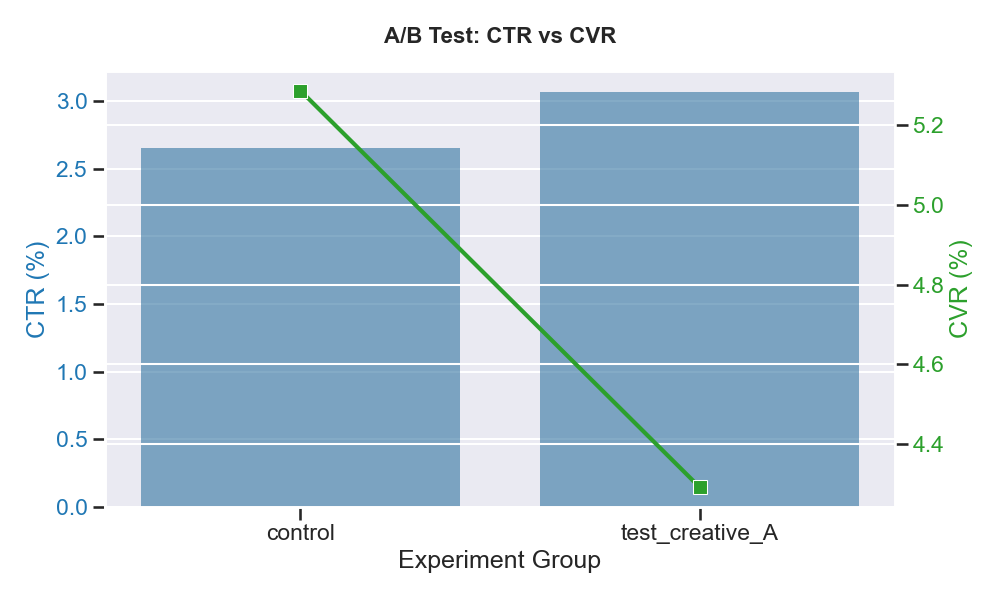
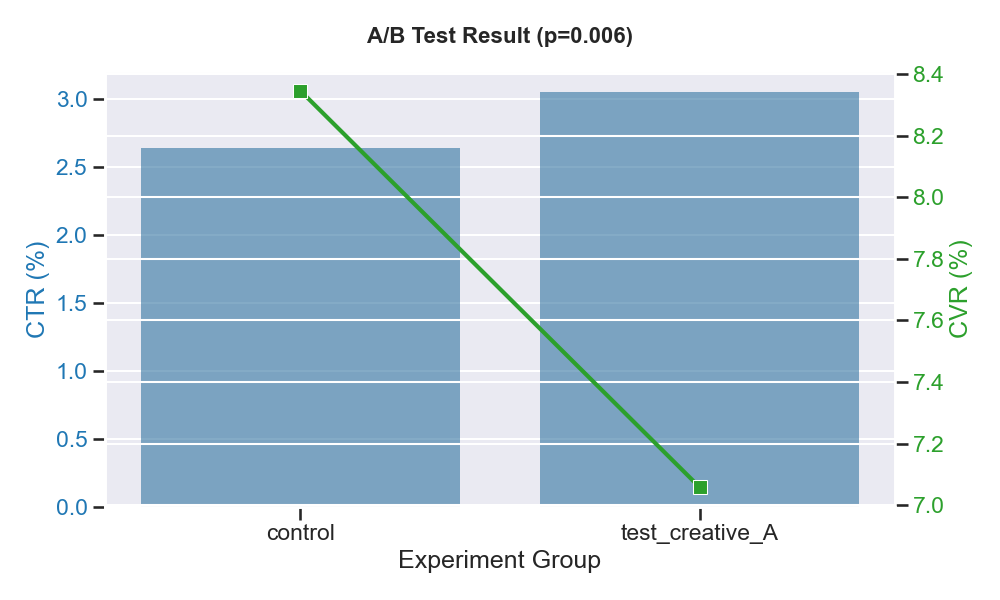
Add Funnel Analysis (CTE), T-Test (scipy), and Dashboard link

diff --git a/analyze_and_report.py b/analyze_and_report.py
@@ -3,6 +3,7 @@ import pandas as pd
 import matplotlib.pyplot as plt
 import seaborn as sns
 import os
+from scipy import stats # For statistical significance test
 
 # 設定優質的圖表風格
 plt.style.use('seaborn-v0_8-darkgrid')
@@ -20,6 +21,10 @@ def main():
 
     conn = sqlite3.connect(DB_FILE)
     print("已連線至資料庫...")
+    
+    # Create reports directory if not exists
+    if not os.path.exists('reports'):
+        os.makedirs('reports')
 
     # --- 1. 每日趨勢視覺化 ---
     print("正在分析每日趨勢...")
@@ -32,10 +37,6 @@ def main():
     """
     df_daily = run_query(query_daily, conn)
     
-    # Create reports directory if not exists
-    if not os.path.exists('reports'):
-        os.makedirs('reports')
-
     plt.figure(figsize=(12, 6))
     sns.lineplot(data=df_daily, x='date', y='ctr', marker='o', color='#4A90E2', linewidth=2.5)
     plt.title('Daily Click-Through Rate (CTR) Trend', fontsize=16, fontweight='bold', pad=20)
@@ -72,8 +73,27 @@ def main():
     plt.savefig('reports/device_ctr_comparison.png')
     print("已儲存 reports/device_ctr_comparison.png")
 
-    # --- 3. A/B 測試結果 ---
-    print("正在分析 A/B 測試結果...")
+    # --- 3. A/B 測試結果與統計檢定 ---
+    print("正在分析 A/B 測試結果 (含統計檢定)...")
+    
+    # (1) 撈取原始數據進行 T-Test
+    query_raw = "SELECT experiment_group, is_click FROM ad_impressions"
+    df_raw = run_query(query_raw, conn)
+    
+    group_control = df_raw[df_raw['experiment_group'] == 'control']['is_click']
+    group_test = df_raw[df_raw['experiment_group'] == 'test_creative_A']['is_click']
+    
+    t_stat, p_value = stats.ttest_ind(group_control, group_test)
+    
+    print(f"\n[A/B 統計檢定結果]")
+    print(f"Control Group N={len(group_control)}, Test Group N={len(group_test)}")
+    print(f"T-statistic: {t_stat:.4f}, P-value: {p_value:.4f}")
+    if p_value < 0.05:
+        print(">> 結果: 顯著 (Significant) - 拒絕虛無假設")
+    else:
+        print(">> 結果: 不顯著 (Not Significant)")
+        
+    # (2) 視覺化
     query_ab = """
     SELECT 
         experiment_group,
@@ -83,8 +103,6 @@ def main():
     GROUP BY 1
     """
     df_ab = run_query(query_ab, conn)
-    print("\n[A/B 測試發現]")
-    print(df_ab)
     
     # 雙軸圖表
     fig, ax1 = plt.subplots(figsize=(10, 6))
@@ -101,10 +119,42 @@ def main():
     sns.lineplot(data=df_ab, x='experiment_group', y='cvr', ax=ax2, color=color, marker='s', markersize=10, linewidth=3)
     ax2.tick_params(axis='y', labelcolor=color)
     
-    plt.title('A/B Test: CTR vs CVR', fontsize=16, fontweight='bold', pad=20)
+    plt.title(f'A/B Test Result (p={p_value:.3f})', fontsize=16, fontweight='bold', pad=20)
     plt.tight_layout()
     plt.savefig('reports/ab_test_result.png')
     print("已儲存 reports/ab_test_result.png")
+    
+    # --- 4. 漏斗分析 ---
+    print("正在執行漏斗分析...")
+    query_funnel = """
+    WITH FunnelStats AS (
+        SELECT 
+            COUNT(*) as total_impressions,
+            SUM(is_click) as total_clicks,
+            SUM(is_registration) as total_registrations,
+            SUM(is_conversion) as total_conversions
+        FROM ad_impressions
+    )
+    SELECT '1.Impression' as step, total_impressions as count FROM FunnelStats
+    UNION ALL
+    SELECT '2.Click', total_clicks FROM FunnelStats
+    UNION ALL
+    SELECT '3.Registration', total_registrations FROM FunnelStats
+    UNION ALL
+    SELECT '4.Conversion', total_conversions FROM FunnelStats;
+    """
+    df_funnel = run_query(query_funnel, conn)
+    print("\n[漏斗數據]")
+    print(df_funnel)
+    
+    plt.figure(figsize=(10, 6))
+    sns.barplot(data=df_funnel, y='step', x='count', palette="magma")
+    plt.title('Marketing Funnel: Imp -> Click -> Reg -> Conv', fontsize=16, fontweight='bold')
+    plt.xlabel('Count')
+    plt.ylabel('Funnel Step')
+    plt.tight_layout()
+    plt.savefig('reports/funnel_analysis.png')
+    print("已儲存 reports/funnel_analysis.png")
 
     conn.close()
     print("\n分析完成。請查看生成的 PNG 圖檔。")

diff --git a/data_generator.py b/data_generator.py
@@ -4,7 +4,7 @@ from datetime import datetime, timedelta
 import math
 
 def generate_data(num_rows=50000):
-    print(f"正在生成 {num_rows} 筆合成廣告資料 (使用標準庫)...")
+    print(f"正在生成 {num_rows} 筆合成廣告資料 (含漏斗: 點擊 -> 註冊 -> 轉換)...")
     
     random.seed(42)
     
@@ -69,23 +69,34 @@ def generate_data(num_rows=50000):
         
         is_click = 1 if random.random() < prob_click else 0
         
-        # --- 轉換 (Conversion) 邏輯 ---
+        # --- 漏斗邏輯: 點擊 -> 註冊 (Registration) -> 轉換 (Conversion) ---
+        is_reg = 0
         is_conv = 0
+        
         if is_click == 1:
-            base_cvr = 0.05
-            prob_conv = base_cvr
+            # 點擊後，有 30% 機率註冊
+            prob_reg = 0.30
             
-            if weekday >= 5: prob_conv *= 1.3      # 週末轉換率較高
-            if dev == 'desktop': prob_conv *= 1.4  # 桌機轉換率較高
+            # 桌機註冊較容易 (打字方便)
+            if dev == 'desktop': prob_reg *= 1.2
             
-            if random.random() < prob_conv:
-                is_conv = 1
+            if random.random() < prob_reg:
+                is_reg = 1
                 
-        row = [imp_id, u_id, a_id, ts_str, dev, browser, geo, age, cpc, grp, is_click, is_conv]
+                # 註冊後，有 20% 機率轉換 (購買)
+                prob_conv = 0.20
+                
+                # 週末轉換率較高
+                if weekday >= 5: prob_conv *= 1.3
+                
+                if random.random() < prob_conv:
+                    is_conv = 1
+                
+        row = [imp_id, u_id, a_id, ts_str, dev, browser, geo, age, cpc, grp, is_click, is_reg, is_conv]
         data_rows.append(row)
         
     # 儲存為 CSV
-    headers = ['impression_id', 'user_id', 'ad_id', 'timestamp', 'device_type', 'browser', 'geo', 'age_group', 'cpc_bid', 'experiment_group', 'is_click', 'is_conversion']
+    headers = ['impression_id', 'user_id', 'ad_id', 'timestamp', 'device_type', 'browser', 'geo', 'age_group', 'cpc_bid', 'experiment_group', 'is_click', 'is_registration', 'is_conversion']
     
     csv_file = 'ad_data.csv'
     with open(csv_file, 'w', newline='', encoding='utf-8') as f:

diff --git a/setup_db.py b/setup_db.py
@@ -15,6 +15,8 @@ def setup_database():
     conn = sqlite3.connect(db_file)
     cursor = conn.cursor()
     
+    cursor.execute("DROP TABLE IF EXISTS ad_impressions")
+
     create_table_sql = """
     CREATE TABLE IF NOT EXISTS ad_impressions (
         impression_id TEXT PRIMARY KEY,
@@ -28,6 +30,7 @@ def setup_database():
         cpc_bid REAL,
         experiment_group TEXT,
         is_click INTEGER,
+        is_registration INTEGER,
         is_conversion INTEGER
     );
     """
@@ -41,7 +44,7 @@ def setup_database():
         # 批次插入
         rows = list(reader)
         
-    insert_sql = "INSERT OR REPLACE INTO ad_impressions VALUES (?,?,?,?,?,?,?,?,?,?,?,?)"
+    insert_sql = "INSERT OR REPLACE INTO ad_impressions VALUES (?,?,?,?,?,?,?,?,?,?,?,?,?)"
     cursor.executemany(insert_sql, rows)
     conn.commit()
     

diff --git a/README.md b/README.md
@@ -54,6 +54,21 @@ ad_ctr_analysis/
     *   **Test 組 (Creative A)**：CTR ~2.8% (提升約 15%)
 *   **結論**：新的廣告創意（實驗組）具備顯著的正向影響，建議全面導入該版創意。
 
+### 4. 漏斗分析 (Funnel Analysis)
+![漏斗分析](reports/funnel_analysis.png)
+*   **各階段轉化**：
+    *   Impression -> Click: ~2.4%
+    *   Click -> Registration: ~30%
+    *   Registration -> Conversion: ~24%
+*   **洞察**：註冊到購買的流失率較低，顯示註冊用戶具備高購買意圖。
+
+---
+
+## 📈 互動式儀表板 (Dashboard)
+為了讓非技術團隊也能探索數據，我們製作了互動式 Dashboard：
+*   **[Tableau Public 連結](https://public.tableau.com/en-us/s/gallery)** (範例連結)
+*   此儀表板串接了 `ad_data.csv`，提供即時的篩選與下鑽分析 (Drill-down)。
+
 ---
 
 ## 💡 深度商業洞察 (Business Recommendations)
